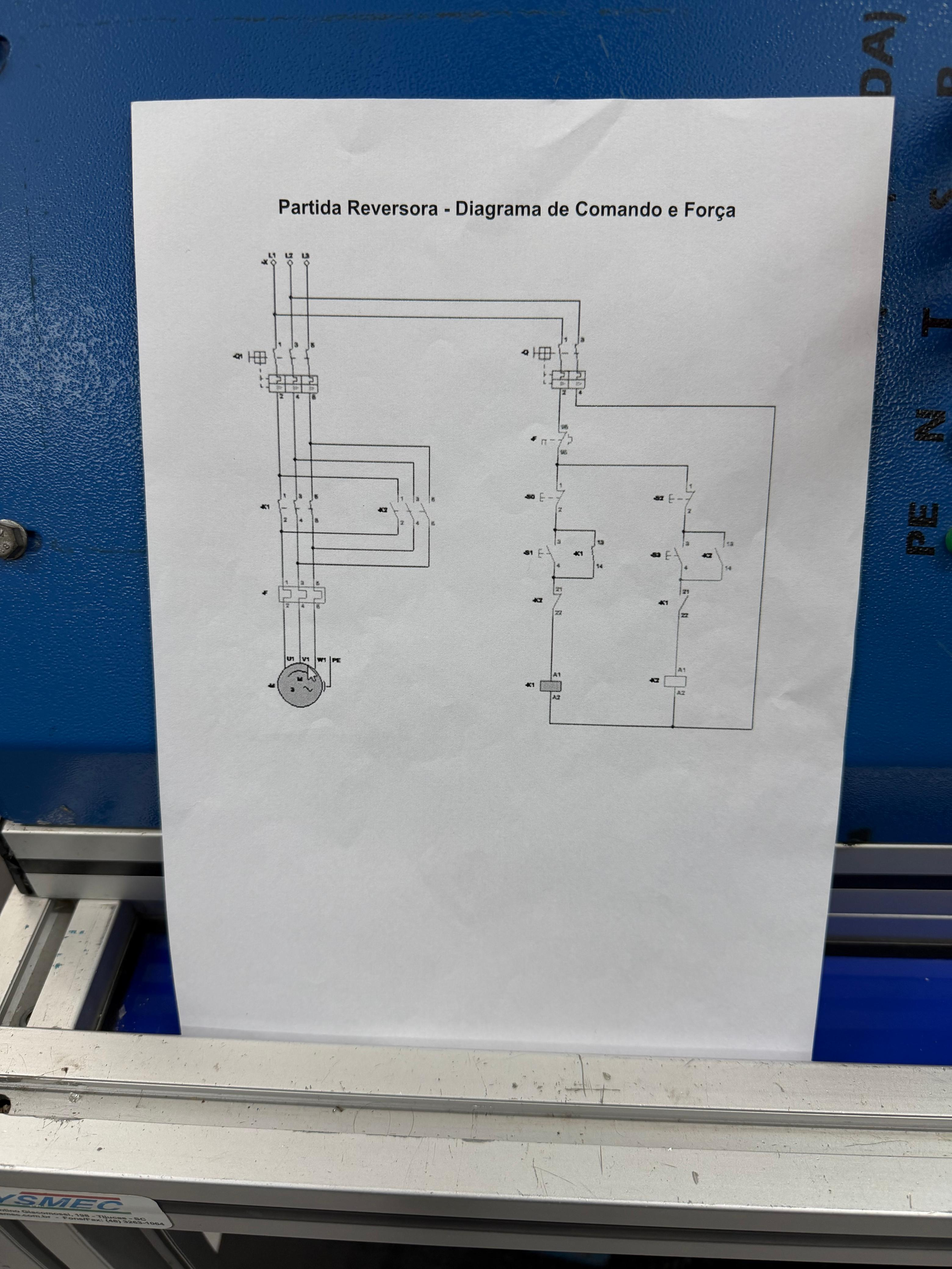
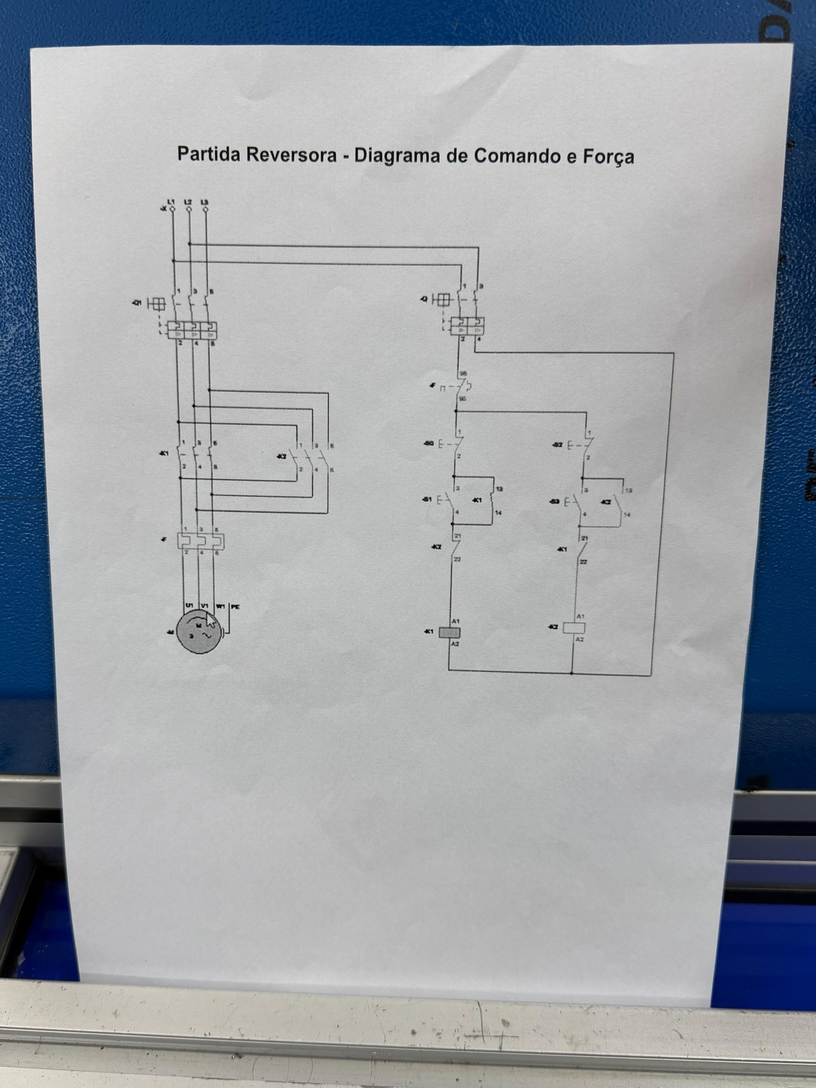
versao cinco

diff --git a/html/painel.html b/html/painel.html
@@ -30,6 +30,9 @@
             <div class="galeria">
                 <a href="../img/reversora.jpeg" target="_blank"><img src="../img/reversora.jpeg" alt="Painel da partida reversora, foto 1"></a>
                 <a href="../img/reversora2.jpeg" target="_blank"><img src="../img/reversora2.jpeg" alt="Painel da partida reversora, foto 2"></a>
+                <a href="../img/reversora3.jpeg" target="_blank"><img src="../img/reversora3.jpeg" alt="Painel da partida reversora, foto 3"></a>
+                <a href="../img/reversora4.jpeg" target="_blank"><img src="../img/reversora4.jpeg" alt="Painel da partida reversora, foto 4"></a>
+                <a href="../img/reversora5.jpeg" target="_blank"><img src="../img/reversora5.jpeg" alt="Painel da partida reversora, foto 5"></a>
             </div>
         </section>
 

diff --git a/css/style.css b/css/style.css
@@ -235,8 +235,9 @@ section img.ladder{
 }
 
 .galeria{
-    display: grid;
-    grid-template-columns: repeat(auto-fit, minmax(150px, 1fr));
+    display: flex;
+    flex-wrap: wrap;
+    justify-content: center;
     gap: 10px;
     margin-top: 10px;
 }
@@ -244,6 +245,13 @@ section img.ladder{
 .galeria a{
     display: block;
     padding: 0px;
+    flex: 0 0 calc((100% - 10px) / 2);
+}
+
+@media (min-width: 560px){
+    .galeria a{
+        flex: 0 0 calc((100% - 20px) / 3);
+    }
 }
 
 .galeria a:hover{
